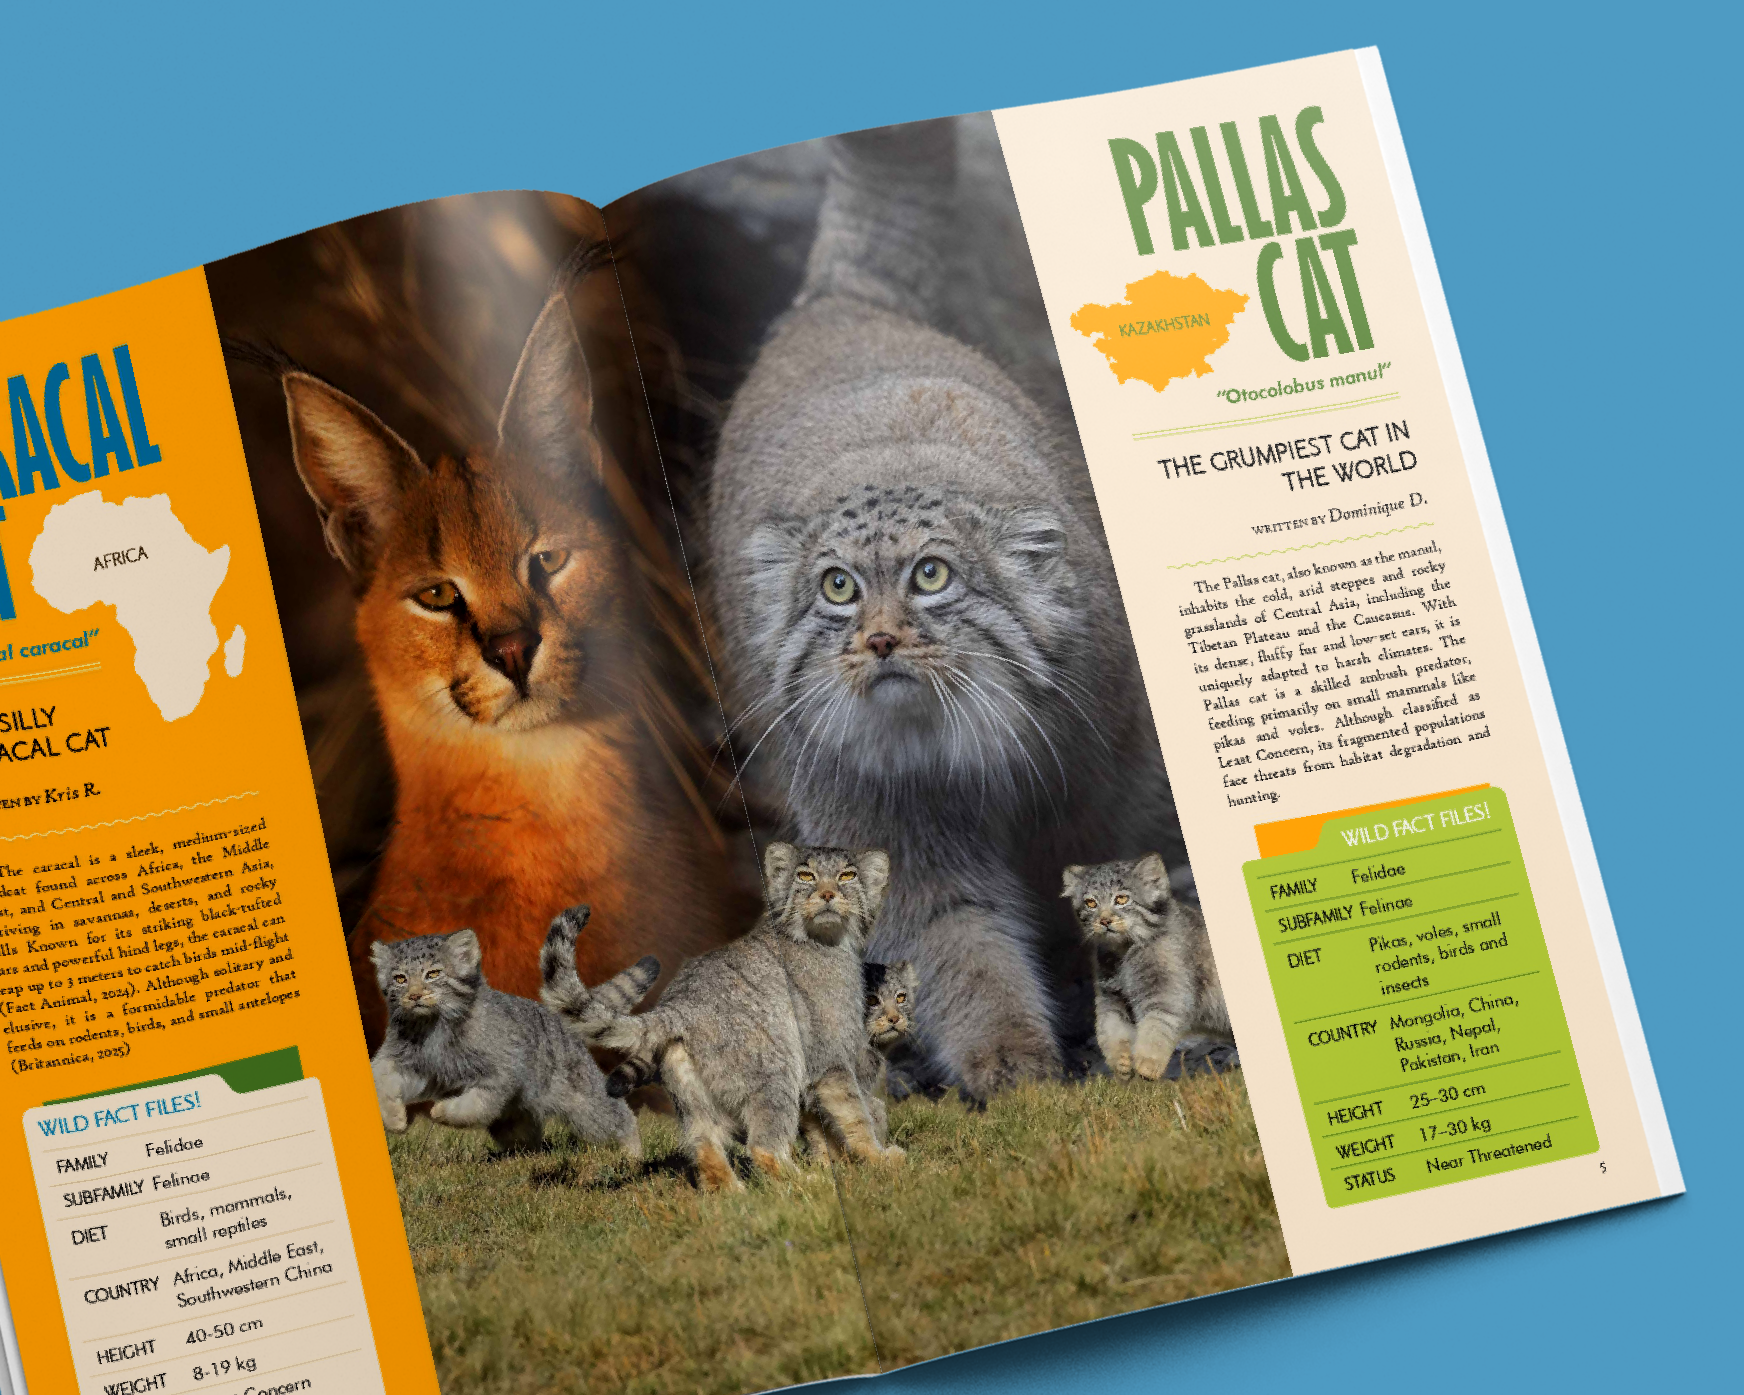
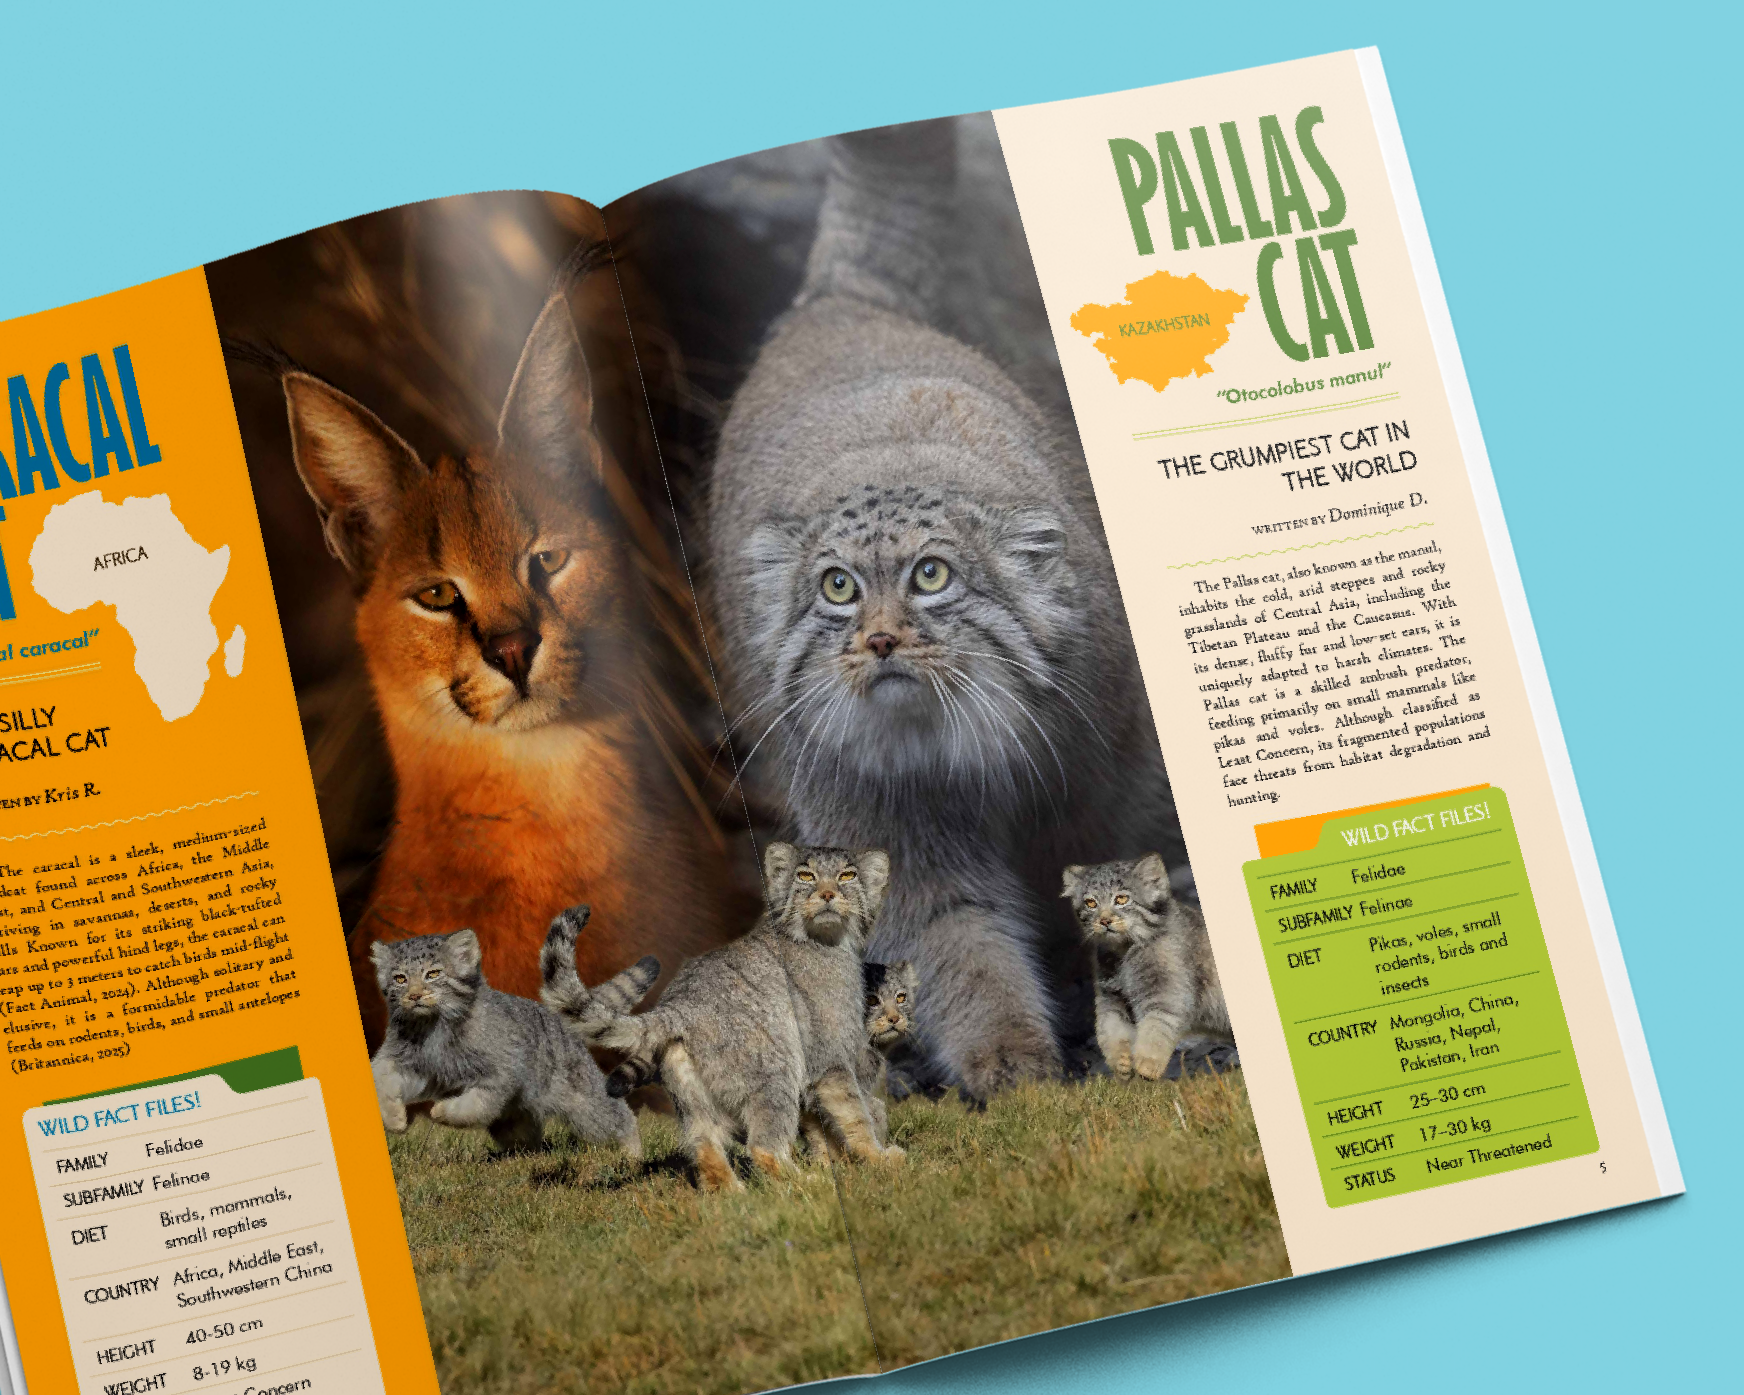
added more stuff to portfolio added log entry

Changed region(s): [[0.0, 0.0, 1.0, 1.0]]

diff --git a/publicdeploy/portfolio.html b/publicdeploy/portfolio.html
@@ -79,6 +79,38 @@
             <a href="https://www.example.com" target="_blank" class="more"></a>
         </article>
 
+        <article class="illustration">
+            <img src="portfolio/images/stars.png" class="thumbnail">
+            <div class="article-header">
+                <h2>White Queen</h2><h3>Fanart</h3>
+            </div>
+            <div class="article-description">
+                Stars of lovingness.
+            </div>
+            <a href="https://www.example.com" target="_blank" class="more"></a>
+        </article>
+
+        <article class="illustration">
+            <img src="portfolio/images/riddler.jpg" class="thumbnail">
+            <div class="article-header">
+                <h2>The Riddler</h2><h3>Fanart</h3>
+            </div>
+            <div class="article-description">
+                Fanart for the Batman movie starring Paul Dano and Robert Pattinson. Procreate.
+            </div>
+            <a href="https://www.example.com" target="_blank" class="more"></a>
+        </article>
+
+        <article class="illustration">
+            <img src="portfolio/images/smile.png" class="thumbnail">
+            <div class="article-header">
+                <h2>Smile</h2><h3>Fanart</h3>
+            </div>
+            <div class="article-description">
+                Fanart for the band Queen before they were Queen. Procreate.
+            </div>
+            <a href="https://www.example.com" target="_blank" class="more"></a>
+        </article>
         
         <article class="layouting">
             <img src="portfolio/greatwild/mockup.png" class="thumbnail">
@@ -113,7 +145,28 @@
             </div>
             <a href="https://www.example.com" target="_blank" class="more"></a>
         </article>
+        
+        <article class="gdesign">
+            <img src="portfolio/images/para.png" class="thumbnail logo">
+            <div class="article-header">
+                <h2>Para</h2><h3>Logo</h3>
+            </div>
+            <div class="article-description">
+                Logo for a commuter app. The r is made to look like a commuter hailing a jeep.
+            </div>
+            <a href="https://www.example.com" target="_blank" class="more"></a>
+        </article>
 
+        <article class="gdesign">
+            <img src="portfolio/images/eksticker.png" class="thumbnail logo">
+            <div class="article-header">
+                <h2>EverythingKris</h2><h3>Logo</h3>
+            </div>
+            <div class="article-description">
+                A personal logo made from some of my favorite techniques.
+            </div>
+            <a href="https://www.example.com" target="_blank" class="more"></a>
+        </article>
         
         <article class="gdesign">
             <img src="portfolio/images/play.jpg" class="thumbnail">
@@ -159,17 +212,6 @@
         </article>
         
         <article class="gdesign">
-            <img src="portfolio/images/eksticker.png" class="thumbnail logo">
-            <div class="article-header">
-                <h2>EverythingKris</h2><h3>Logo</h3>
-            </div>
-            <div class="article-description">
-                A personal logo made from some of my favorite techniques.
-            </div>
-            <a href="https://www.example.com" target="_blank" class="more"></a>
-        </article>
-    
-        <article class="gdesign">
             <img src="portfolio/images/chismis1.jpg" class="thumbnail">
             <div class="article-header">
                 <h2>Chismis Ba Yan?</h2><h3>Spec ad</h3>
@@ -179,6 +221,7 @@
             </div>
             <a href="https://www.example.com" target="_blank" class="more"></a>
         </article>
+
     
     </main>
 

diff --git a/publicdeploy/index.html b/publicdeploy/index.html
@@ -551,6 +551,10 @@
                 Sort of my public-access diary.
               </div>
               <div class="entry">
+                  <div class="heading">Living like Spongebob<span class="date">oct 5, 2026</span></div>
+                  <p>These meds make me alive! And productive! Life is jampacked, and it's perfect.</p>
+              </div>
+              <div class="entry">
                 <div class="heading">Straight layered hair<span class="date">sept 15, 2026</span></div>
                 <img src="gifs/minion.gif" class="right">
                 <p>Side part, straight layered hair. Just some random thoughts over the last few days...</p>
@@ -1588,6 +1592,7 @@
           <span class="mini-title">Changelog</span>
           <div class="inset-box changelog">
             <ul>
+              <li>10/05/26: Added more stuff to my portfolio. New log entry. I think that's it.</li>
               <li>09/15/26: Added this new changelog. Added a few more neobors, and snazzed up my news page</li>
               <li>??/??/??: I did a little mining off-camera</li>
               <li>12/23/23: D-Day. First recorded instance of my website, still under the name "killkris"</li>
